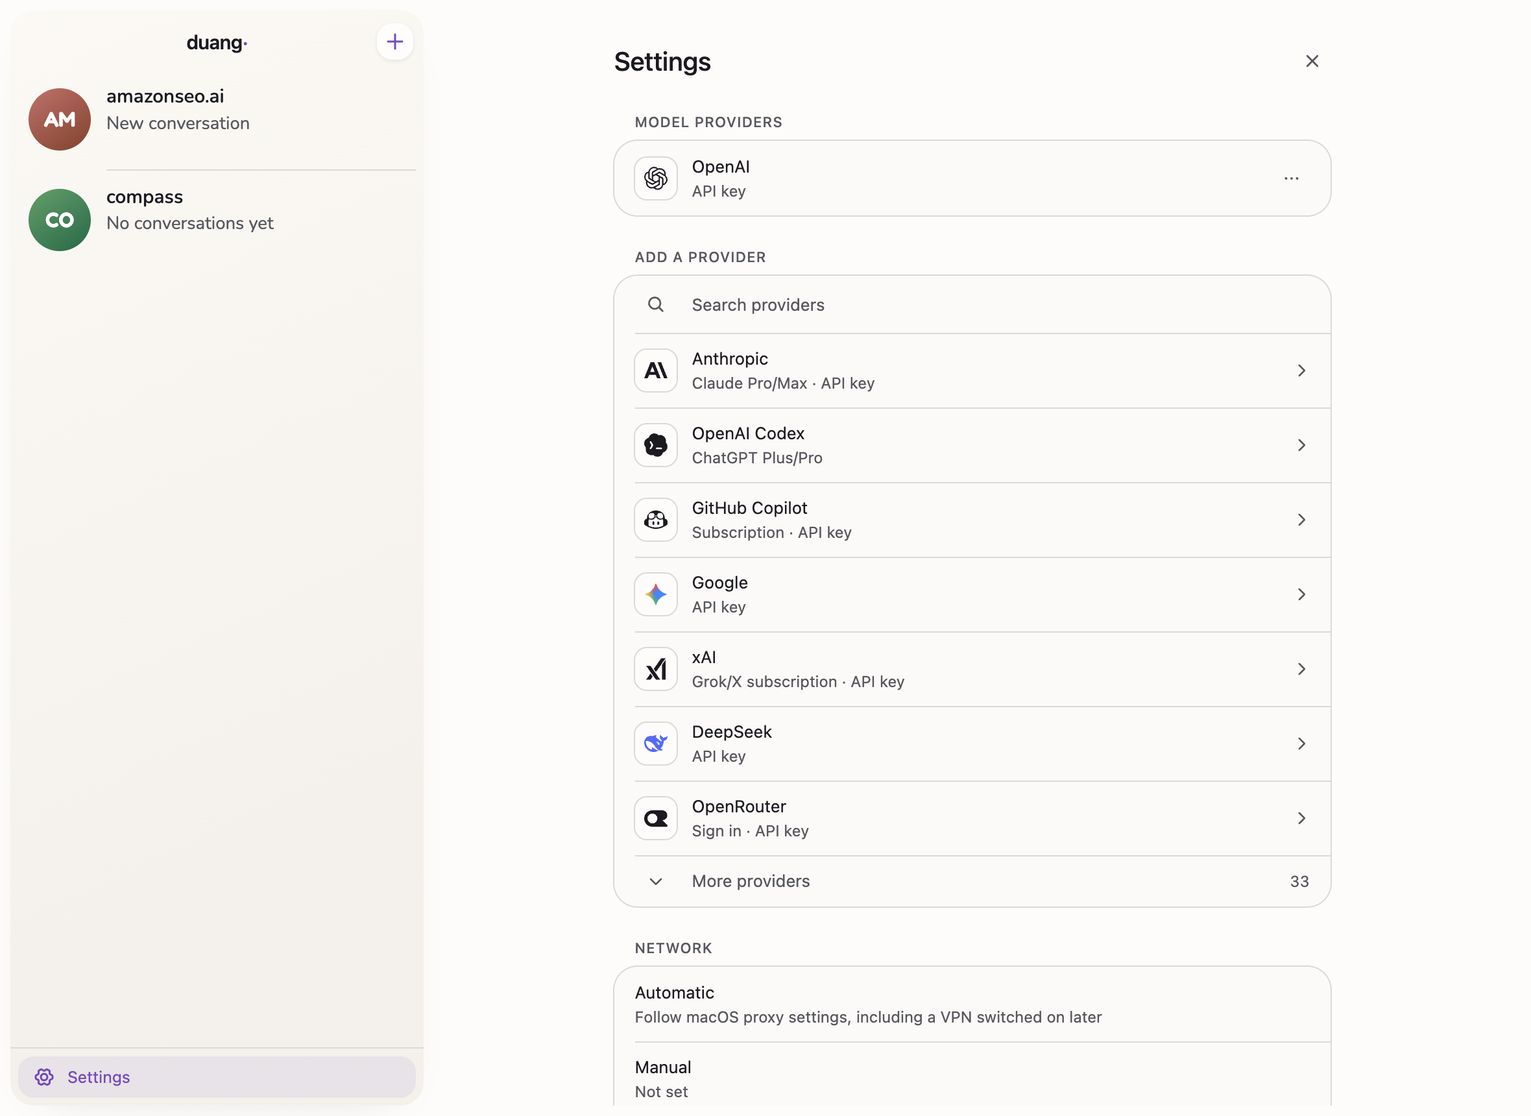
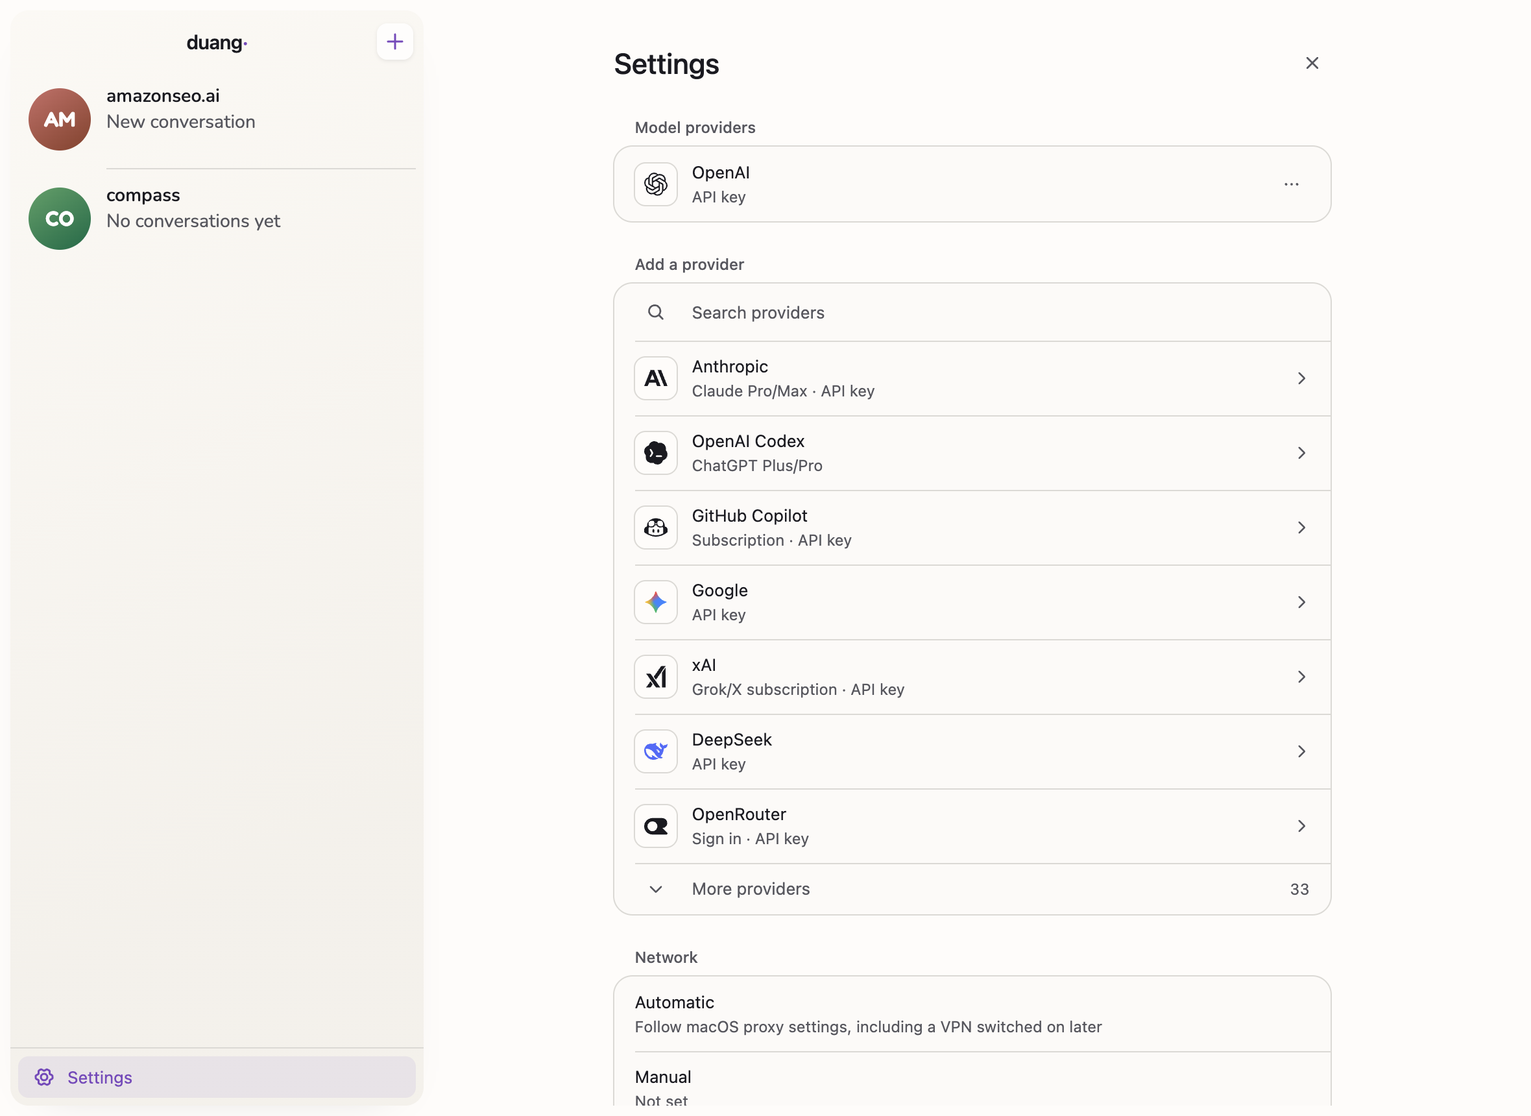
refactor(ui): one type scale, one radius scale, sentence-case headings (#96)
## Summary

The second batch of the design review: the parts that make the chrome
one system.

**One type scale.** The chrome is set at **11, 12, 13, 15 and 22**, with
mono's 12.5 the one half step (`docs/ui.md` already said mono sits half
a step above the sans beside it, since its x-height is smaller). Gone:
13.5 (agent name), 12.5 on sans (roster preview, conversation rows, the
Settings link), 11.5, 14 (the picker's and the slash list's rows and
search) and 20 (page titles, the device code). Reading text (15), answer
headings (22/19/17) and tables (14) stay in `index.css`, as documented.

**One radius scale, the same in both modes: 8, 14, 20.** The tokens
differed by theme (light 12/18, dark 10/14) with no word about it;
`--radius-badge` (6) and the 9px provider tile are folded in. Corners
are concentric: a popover is 14 with 6 of padding, so what sits in it is
8. 20 is the composer and header pills. The bubble takes 14 (8 read
tight); its tail and inline code stay 4.

**Settings headings are sentence case at 12**, like every other label.
They were the only small caps in the app; `docs/ui.md` described them as
Telegram's settings look, and now says why they are not.

A test (`tokens.test.ts`) reads the components and fails on a text size
off the scale (12.5 only on a line with `font-mono`) or an arbitrary
radius other than 4.

`docs/ui.md` and `docs/ui.zh.md` state the scales; the fixture
screenshots are regenerated.

### Known limitations
[…]

diff --git a/src/renderer/providers.tsx b/src/renderer/providers.tsx
@@ -43,7 +43,7 @@ const LOGOS: Record<string, string> = {
 
 function ProviderMark({ provider, size = 32 }: { provider: ProviderRow; size?: number }) {
   const svg = svgs[`./provider-logos/${LOGOS[provider.id]}.svg`];
-  const tile = "grid shrink-0 place-items-center rounded-[9px] bg-bg text-text ring-1 ring-stroke";
+  const tile = "grid shrink-0 place-items-center rounded-card bg-bg text-text ring-1 ring-stroke";
   // Without a logo, the same tile holds the name's initials, so every row keeps one shape.
   if (!svg)
     return (
@@ -412,7 +412,7 @@ function Ways({ provider, onChoose }: { provider: ProviderRow; onChoose: (way: W
             onClick={() => onChoose(way)}
             className="flex min-w-0 items-center gap-2.5 rounded-card bg-surface px-3 py-2 text-left ring-1 ring-stroke outline-none transition-shadow hover:ring-accent/60 focus-visible:ring-2 focus-visible:ring-accent/70"
           >
-            <span className="grid size-7 shrink-0 place-items-center rounded-badge bg-accent-weak text-accent" aria-hidden>
+            <span className="grid size-7 shrink-0 place-items-center rounded-card bg-accent-weak text-accent" aria-hidden>
               {way.method === "api_key" ? <Key size={15} /> : <Globe size={15} />}
             </span>
             <span className="min-w-0">
@@ -555,7 +555,7 @@ function Flow({ signIn, store }: { signIn: SignIn; store: Store }) {
                   <CaretRight size={11} className="transition-transform group-open:rotate-90" />
                   What {provider.name} said
                 </summary>
-                <p className="mt-1 whitespace-pre-wrap break-words font-mono text-[11.5px] text-muted">{info.message}</p>
+                <p className="mt-1 whitespace-pre-wrap break-words font-mono text-[11px] text-muted">{info.message}</p>
               </details>
             )}
           </div>
@@ -620,7 +620,7 @@ function DeviceCode({ device, store }: { device: NonNullable<SignIn["device"]>; 
         detail={left === undefined ? undefined : left > 0 ? `The code expires in ${Math.ceil(left / 60)} min.` : "The code expired. Close this and start again."}
       />
       <div className="flex flex-wrap items-center gap-2 pl-6">
-        <span className="rounded-card bg-surface px-3 py-1 font-mono text-[20px] tracking-[0.18em] ring-1 ring-stroke select-all">
+        <span className="rounded-card bg-surface px-3 py-1 font-mono text-[22px] tracking-[0.18em] ring-1 ring-stroke select-all">
           {device.userCode}
         </span>
         <CopyButton text={device.userCode} label="Copy code" />
@@ -635,7 +635,7 @@ function DeviceCode({ device, store }: { device: NonNullable<SignIn["device"]>; 
 }
 
 const fieldClass =
-  "h-7 min-w-0 flex-1 rounded-card bg-surface px-2.5 text-[12.5px] outline-none ring-1 ring-stroke placeholder:font-sans placeholder:text-muted focus:ring-accent/60 disabled:opacity-60";
+  "h-7 min-w-0 flex-1 rounded-card bg-surface px-2.5 outline-none ring-1 ring-stroke placeholder:font-sans placeholder:text-muted focus:ring-accent/60 disabled:opacity-60";
 
 /**
  * The key, shown as typed so a paste can be checked by eye. One field for the whole exchange: it
@@ -672,7 +672,7 @@ function KeyField({ promptId, store, label }: { promptId?: string; store: Store;
           value={value}
           onChange={(event) => setValue(event.target.value)}
           placeholder="Paste your key"
-          className={`${fieldClass} font-mono`}
+          className={`${fieldClass} font-mono text-[12.5px]`}
         />
         <Button kind="primary" size={28} onClick={submit} disabled={checking ? "Checking the key" : undefined}>
           {checking ? "Checking…" : "Connect"}
@@ -754,7 +754,7 @@ function Answer({
           aria-label={text}
           placeholder={placeholder ?? prompt.placeholder}
           // Typed values are keys, codes and addresses, read character by character; hints are prose.
-          className={`${fieldClass} font-mono`}
+          className={`${fieldClass} font-mono text-[12.5px]`}
         />
         <Button kind="primary" size={28} onClick={submit}>
           {action}

diff --git a/src/renderer/tokens.test.ts b/src/renderer/tokens.test.ts
@@ -1,0 +1,68 @@
+import assert from "node:assert/strict";
+import { readdirSync, readFileSync } from "node:fs";
+import { join } from "node:path";
+import { test } from "node:test";
+
+// docs/ui.md §5 and §7. The chrome's sizes; the conversation's own (15, headings, tables) are set in
+// index.css, which this does not read, and only Tailwind arbitrary values in `.tsx` are checked.
+const SIZES = new Set([11, 12, 13, 15, 22]);
+// Mono sits half a step above the sans beside it, since its x-height is smaller: 12.5, and only on mono.
+const MONO_HALF_STEP = 12.5;
+
+/** The quoted string the character at `index` is in: the run between the nearest quotes around it. */
+function enclosingString(source: string, index: number): string {
+  const start = Math.max(source.lastIndexOf('"', index), source.lastIndexOf("`", index));
+  const end = source.indexOf(source[start]!, index);
+  return source.slice(start, end < 0 ? source.length : end);
+}
+
+const lineOf = (source: string, index: number) => source.slice(0, index).split("\n").length;
+
+/** Text sizes off the scale. The half step passes when the same string sets `font-mono`, wherever it is broken across lines. */
+export function sizesOffScale(source: string): string[] {
+  const off: string[] = [];
+  for (const match of source.matchAll(/text-\[(\d+(?:\.\d+)?)px\]/g)) {
+    const px = Number(match[1]);
+    const mono = px === MONO_HALF_STEP && /\bfont-mono\b/.test(enclosingString(source, match.index));
+    if (!SIZES.has(px) && !mono) off.push(`line ${lineOf(source, match.index)}: ${px}px`);
+  }
+  return off;
+}
+
+/** Arbitrary radii; a bubble's tail and inline code are the only 4. */
+export function radiiOffScale(source: string): string[] {
+  return [...source.matchAll(/rounded-(?:[a-z]+-)?\[(\d+)px\]/g)]
+    .filter((match) => match[1] !== "4")
+    .map((match) => `line ${lineOf(source, match.index)}: ${match[1]}px`);
+}
+
+/** Every `.tsx` under the renderer, with its path. */
+function components(dir: string, prefix = ""): { name: string; source: string }[] {
+  return readdirSync(dir, { withFileTypes: true }).flatMap((entry) =>
+    entry.isDirectory()
+      ? components(join(dir, entry.name), `${prefix}${entry.name}/`)
+      : entry.name.endsWith(".tsx")
+        ? [{ name: `${prefix}${entry.name}`, source: readFileSync(join(dir, entry.name), "utf8") }]
+        : [],
+  );
+}
+const sources = components(new URL(".", import.meta.url).pathname);
+
+test("chrome text is set on the size scale, and the half step only on mono", () => {
+  const off = sources.flatMap(({ name, source }) => sizesOffScale(source).map((at) => `${name} ${at}`));
+  assert.deepEqual(off, [], "sizes off the scale (docs/ui.md §5)");
+});
+
+test("corners come from the three radius tokens; a bubble's tail and inline code are the only 4", () => {
+  const off = sources.flatMap(({ name, source }) => radiiOffScale(source).map((at) => `${name} ${at}`));
+  assert.deepEqual(off, [], "arbitrary radii (docs/ui.md §7)");
+});
+
+test("the scan reads a whole className: mono is what the string says, not what the file or the line says", () => {
+  // Broken across lines, the string still sets font-mono.
+  assert.deepEqual(sizesOffScale('<pre className="mt-1.5\n  font-mono\n  text-[12.5px]" />'), []);
+  // Another string in the file setting font-mono does not excuse this one.
+  assert.deepEqual(sizesOffScale('<b className="font-mono" /><i className="text-[12.5px]" />'), ["line 1: 12.5px"]);
+  assert.deepEqual(sizesOffScale('<i className="text-[13.5px] font-mono" />'), ["line 1: 13.5px"]);
+  assert.deepEqual(radiiOffScale('<i className="rounded-[4px]" /><b className="rounded-[9px]" />'), ["line 1: 9px"]);
+});

diff --git a/src/renderer/rows.tsx b/src/renderer/rows.tsx
@@ -186,7 +186,7 @@ export function Sidebar({
                   <RenameField
                     label="Agent name"
                     value={agent.name}
-                    className="min-w-0 flex-1 font-prose text-[13.5px]"
+                    className="min-w-0 flex-1 font-prose text-[13px]"
                     onCancel={() => endRename(agent.id)}
                     onCommit={(name) => {
                       endRename(agent.id);
@@ -221,7 +221,7 @@ export function Sidebar({
                   <Avatar name={agent.name} size={48} working={busy > 0} />
                   <span className="min-w-0 flex-1">
                     <span className="flex items-baseline gap-2">
-                      <span className="min-w-0 flex-1 truncate font-prose text-[13.5px] font-semibold">{agent.name}</span>
+                      <span className="min-w-0 flex-1 truncate font-prose text-[13px] font-semibold">{agent.name}</span>
                       {/* Busy is said in words where the time goes: the preview below is the work
                           itself, streaming, and must not be replaced by a word about it. */}
                       {busy > 0 ? (
@@ -232,7 +232,7 @@ export function Sidebar({
                         at !== undefined && <span className="shrink-0 text-[11px] text-muted tabular-nums">{stamp(at)}</span>
                       )}
                     </span>
-                    <span id={status} className="mt-0.5 flex h-[34px] items-start gap-2 text-[12.5px] leading-[17px]">
+                    <span id={status} className="mt-0.5 flex h-[34px] items-start gap-2 text-[13px] leading-[17px]">
                       {/* A setup problem beats the preview, since there is no output to quote, and
                           is said in words, never a coloured dot alone (§9). */}
                       {state !== "ready" ? (
@@ -276,7 +276,7 @@ export function Sidebar({
           onClick={onSettings}
           aria-current={settingsOpen ? "page" : undefined}
           title="Settings (⌘,)"
-          className={`flex w-full items-center gap-2.5 rounded-card h-8 px-3 text-left text-[12.5px] transition-colors ${
+          className={`flex w-full items-center gap-2.5 rounded-card h-8 px-3 text-left text-[13px] transition-colors ${
             settingsOpen ? "bg-accent-weak text-accent" : "text-muted hover:bg-hover hover:text-text"
           }`}
         >
@@ -401,7 +401,7 @@ export function ConversationList({
               key={row.session}
               label="Conversation name"
               value={renaming.label}
-              className="my-0.5 block w-full font-prose text-[12.5px]"
+              className="my-0.5 block w-full font-prose text-[13px]"
               onCancel={() => endRename(row)}
               onCommit={(name) => {
                 endRename(row);
@@ -429,7 +429,7 @@ export function ConversationList({
                 }`}
               >
                 <span
-                  className={`min-w-0 flex-1 truncate font-prose text-[12.5px] ${row.fresh ? `${current ? "" : "text-muted"} italic` : ""} ${
+                  className={`min-w-0 flex-1 truncate font-prose text-[13px] ${row.fresh ? `${current ? "" : "text-muted"} italic` : ""} ${
                     row.unseen ? "font-semibold" : ""
                   }`}
                 >

diff --git a/src/renderer/composer.tsx b/src/renderer/composer.tsx
@@ -178,7 +178,7 @@ function ModelPicker({
               onChange={(e) => setFilter(e.target.value)}
               aria-label="Filter models"
               placeholder="Search models"
-              className="min-w-0 flex-1 bg-transparent text-[14px] outline-none placeholder:text-muted"
+              className="min-w-0 flex-1 bg-transparent text-[13px] outline-none placeholder:text-muted"
             />
           </div>
           <div className="min-h-0 flex-1 overflow-y-auto px-1.5 pb-1.5">
@@ -200,7 +200,7 @@ function ModelPicker({
                       void store.pickModel(model);
                     }}
                     aria-current={model === current ? "true" : undefined}
-                    className={`flex w-full items-center gap-2 rounded-card px-2.5 py-2 text-left text-[14px] hover:bg-hover ${
+                    className={`flex w-full items-center gap-2 rounded-card px-2.5 py-2 text-left text-[13px] hover:bg-hover ${
                       model === current ? "bg-hover" : ""
                     }`}
                   >
@@ -403,7 +403,7 @@ export function Composer({
                   }}
                   onClick={() => store.setDraft(complete(command))}
                   data-chosen={command === chosen || undefined}
-                  className={`flex w-full scroll-my-1.5 items-baseline gap-2.5 rounded-card px-2.5 py-2 text-left text-[14px] ${
+                  className={`flex w-full scroll-my-1.5 items-baseline gap-2.5 rounded-card px-2.5 py-2 text-left text-[13px] ${
                     command === chosen ? "bg-hover" : ""
                   }`}
                 >

diff --git a/src/renderer/index.css b/src/renderer/index.css
@@ -39,8 +39,8 @@
   /* Text on any `*-fill`, not on the accent alone: both fills are dark enough for white. */
   --color-fill-fg: oklch(1 0 0);
 
-  --radius-badge: 6px;
-  --radius-card: 10px;
+  /* Concentric: a popover is 14 with 6 of padding, so what sits in it is 8. The same in both modes. */
+  --radius-card: 8px;
   --radius-float: 14px;
   /* The composer's field: a pill when it holds one line, a rounded rectangle when it grows. */
   --radius-composer: 20px;
@@ -88,8 +88,6 @@
     --color-success: oklch(0.5 0.14 150);
     --color-warning: oklch(0.58 0.15 60);
     --color-danger: oklch(0.52 0.19 25);
-    --radius-card: 12px;
-    --radius-float: 18px;
   }
 }
 
@@ -592,7 +590,7 @@ summary:focus-visible,
   top: 4px;
   right: 4px;
   z-index: 1;
-  border-radius: var(--radius-badge);
+  border-radius: var(--radius-card);
   background: var(--color-surface-2);
   opacity: 0;
   transition: opacity 150ms var(--ease-ui);
@@ -621,10 +619,10 @@ summary:focus-visible,
   font-weight: 600;
 }
 [data-streamdown="table-header-cell"]:first-child {
-  border-radius: var(--radius-badge) 0 0 var(--radius-badge);
+  border-radius: var(--radius-card) 0 0 var(--radius-card);
 }
 [data-streamdown="table-header-cell"]:last-child {
-  border-radius: 0 var(--radius-badge) var(--radius-badge) 0;
+  border-radius: 0 var(--radius-card) var(--radius-card) 0;
 }
 [data-streamdown="table-row"]:last-child > [data-streamdown="table-cell"] {
   border-bottom: 0;

diff --git a/src/renderer/settings.tsx b/src/renderer/settings.tsx
@@ -89,7 +89,7 @@ export function Settings({
     <div className="flex-1 min-h-0 overflow-y-auto">
       <div className="mx-auto max-w-[600px] px-6 pt-6 pb-10">
         <div className="flex items-center gap-2 mb-6">
-          <h1 className="flex-1 text-[20px] font-medium drag">Settings</h1>
+          <h1 className="flex-1 text-[22px] font-medium drag">Settings</h1>
           <Button kind="ghost" size={28} onClick={onClose} aria-label="Close settings" title="Close (Esc)" icon={<X size={14} />} />
         </div>
 
@@ -185,7 +185,7 @@ export function Group({ id, title, children }: { id?: string; title?: string; ch
   return (
     <section aria-labelledby={id} className="space-y-1.5">
       {title && (
-        <h2 id={id} className="px-4 text-[11px] font-medium uppercase tracking-[0.05em] text-muted">
+        <h2 id={id} className="px-4 text-[12px] font-medium text-muted">
           {title}
         </h2>
       )}
@@ -341,7 +341,7 @@ function Status({ route, check, onRefresh }: { route: Route; check?: Connection;
         }}
         aria-label="Check the connection again"
         title="Check again"
-        className="rounded-badge p-0.5 text-muted hover:text-text hover:bg-hover"
+        className="rounded-card p-0.5 text-muted hover:text-text hover:bg-hover"
       >
         <ArrowClockwise size={12} aria-hidden />
       </button>

diff --git a/src/renderer/transcript-view.tsx b/src/renderer/transcript-view.tsx
@@ -275,7 +275,7 @@ export function Message({
       return (
         <div className="flex flex-col items-end gap-1">
           <div
-            className={`bubble max-w-[80%] rounded-card rounded-br-[4px] bg-accent-weak px-3.5 py-2 whitespace-pre-wrap ${
+            className={`bubble max-w-[80%] rounded-float rounded-br-[4px] bg-accent-weak px-3.5 py-2 whitespace-pre-wrap ${
               item.steered ? "border-r-2 border-accent" : ""
             } ${waiting ? "opacity-60" : ""}`}
           >

diff --git a/src/renderer/gallery.tsx b/src/renderer/gallery.tsx
@@ -33,7 +33,7 @@ export default function Gallery() {
     <div className="h-full overflow-y-auto p-8">
       <div className="column space-y-8">
         <header>
-          <h1 className="text-[20px] font-medium">
+          <h1 className="text-[22px] font-medium">
             duang<span className="text-accent">·</span> components
           </h1>
           <p className="text-muted text-[12px]">docs/ui.md §6b. Every section renders the real components.</p>

diff --git a/docs/ui.md b/docs/ui.md
@@ -191,7 +191,7 @@ signal.
 and the id plainly, with the effort after it (`openai/gpt-5 Minimal`); the provider stays because
 `openai/` and `openai-codex/` offer the same ids and are paid for differently. It opens one popover
 anchored to the chip's right edge: a search row, the models under their provider (ids only, in the
-system face rather than mono, at 14px), and the effort. Effort is a track with a stop per
+system face rather than mono, at 13px), and the effort. Effort is a track with a stop per
 level; the runtime's list is the stops, and it is per conversation, so a conversation that has not begun
 says so. The track shows the level the runtime reports and nothing ahead of it: a choice reaches the runtime
 and comes back as `state_changed`. Choosing writes a durable entry into the conversation's record, so
@@ -377,16 +377,18 @@ than a Latin one to read as emphasis.
 | Answer headings | 22 / 19 / 17 (h1–h3), 15 below / 1.4 / 600 |
 | Conversation prose, sent messages, composer | 15 / 1.7 / 400 |
 | Answer tables | 14 / 1.6 / 400, header 600 muted on a tinted band |
-| Agent name | 13.5 / 1.4 / 600 |
+| Agent name | 13 / 1.4 / 600 |
 | Sidebar rows | 13 / 1.7 / 400 |
-| Tool rows, thinking, model list, card bodies | 12 / 1.5 / 400 |
+| Model and command lists, their search | 13 / 1.5 / 400, secondary text 12–13 |
+| Tool rows, thinking, card bodies | 12 / 1.5 / 400 |
 | Code, paths, tool output | 12.5 / 1.625 / 400, mono |
 | Inline code | 0.875em of its line (11 at least) / 400, mono |
 | Badges, timestamps, labels | 11 / 1 / 400–500 |
 
 Mono sits half a step above the sans beside it on purpose: its x-height is smaller, so the same
-nominal size reads smaller. Nothing is drawn at 10 or 11.5 — a half-pixel step is invisible, and all
-it does is stop two things that should match from matching.
+nominal size reads smaller. Nothing else is drawn at a half step: it is invisible, and all it does is stop two things that should
+match from matching. The chrome's scale is 11, 12, 13, 15 and 22 (the page title), with the mono's 12.5
+as the one exception; a test reads the components and fails on any other size.
 
 Emphasis uses weight, never hue. Body text is never coloured.
 
@@ -436,16 +438,18 @@ Popovers share one surface — `surface`, a rounded hairline and a shadow — ev
 though the model list is a modal dialog that takes focus and the slash completion list deliberately
 does not. The model picker is a search field over the models grouped under their provider, the selected one
 first with a check on a neutral row, and the conversation's effort under a hairline. The slash list
-is the same surface and the same rows (14px, neutral highlight on the current item, the command's
+is the same surface and the same rows (13px, neutral highlight on the current item, the command's
 description and source quieter beside it), and it steps aside while the picker is open. The arrow keys scroll the list to keep the cursor's row fully
 in view (it scrolls past eight names); the pointer never needs to.
 
 ## 7. Space, radius, elevation
 
 - Spacing scale: 4, 8, 12, 16, 24, 32.
-- Radius: 6 (badges, small controls), 10/12 (dark/light cards, bubbles, inputs), 14/18
-  (dark/light floating panels). A bubble's trailing corner drops to 4 — that asymmetry is what
-  makes it read as speech.
+- Radius, the same in both modes: 8 (rows, buttons, inputs, table heads), 14 (bubbles, the sidebar,
+  floating panels, code blocks), 20 (the composer and the header, which are pills at one line).
+  Corners are concentric: a popover is 14 with 6 of padding, so what sits in it is 8. A bubble's
+  trailing corner and an inline code span are 4 — that asymmetry is what makes a bubble read as speech.
+  A test fails on any other radius written into a component.
 - Dark panels use value and a hairline; the header has a quiet lower shadow. In light mode the
   sidebar, header and composer get restrained shadows, while reading content stays flat.
 - No divider between sidebar and conversation: the material change is the separation.
@@ -793,8 +797,9 @@ MANUAL PROXY                               (only while Manual is chosen)
 ╭ HTTP / HTTPS / SOCKS5, one checked ╮  ╭ Server │ Port ╮  [Use this proxy]
 ```
 
-- Shipped, drawn the way Telegram draws its settings: a small-caps muted heading over an inset card
-  (`surface`, hairline ring, radius 14) on the plain canvas, rows divided by hairlines that start
+- Shipped, drawn the way Telegram draws its settings: a muted heading over an inset card
+  (`surface`, hairline ring, radius 14; the heading is sentence case at 12, like every other label,
+  since small caps appear nowhere else in the app) on the plain canvas, rows divided by hairlines that start
   where the text does, the choice marked by a trailing accent ✓ rather than a leading radio, and
   fields as rows (a label, then the value) rather than one URL to spell. The chosen row carries the
   connection's state as its second line — `connected · 320 ms` in the accent, or `unreachable
